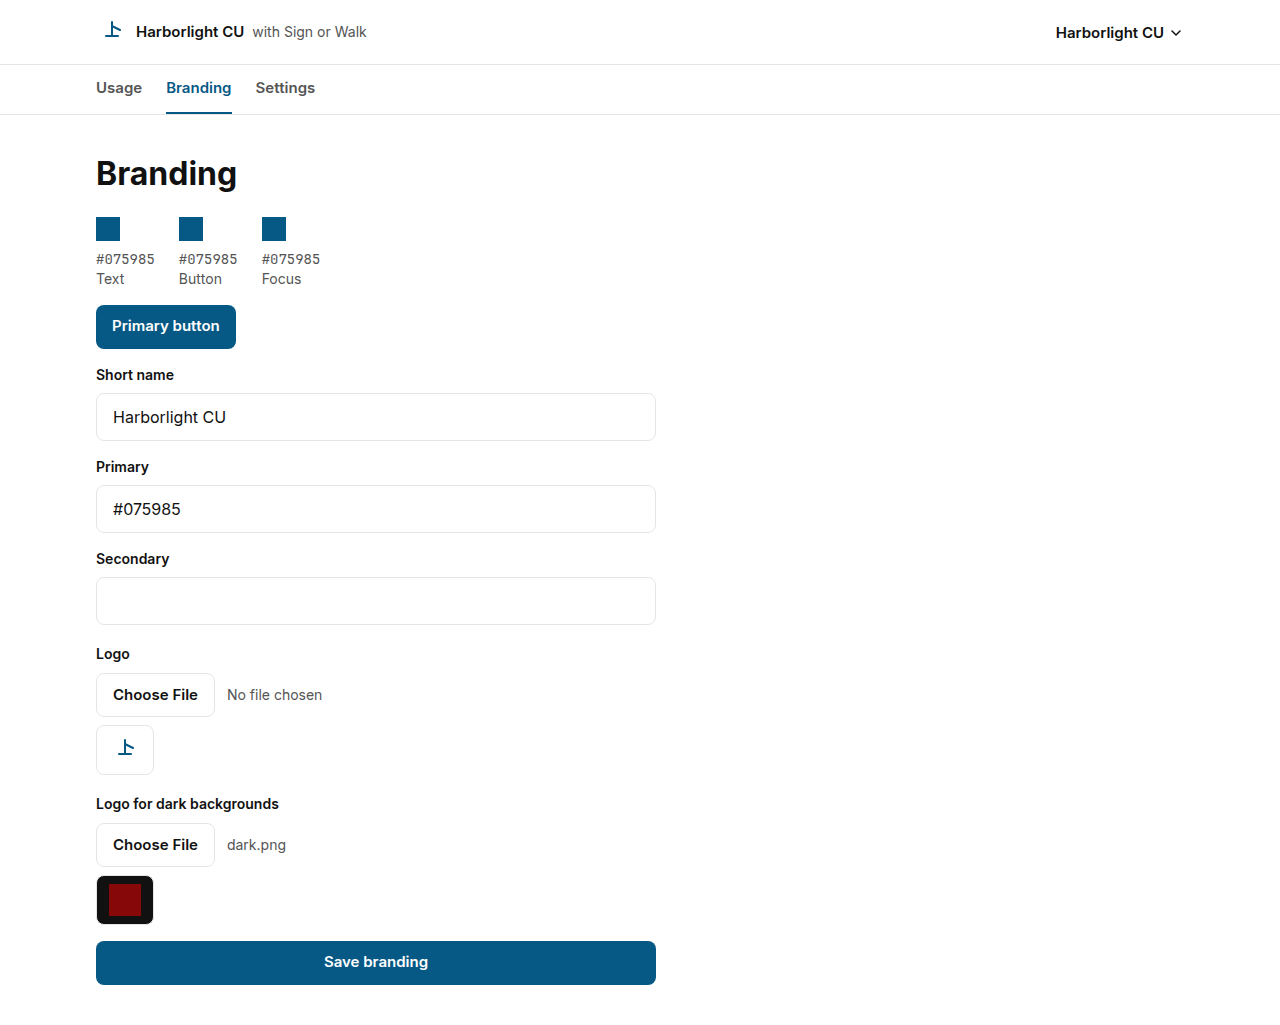
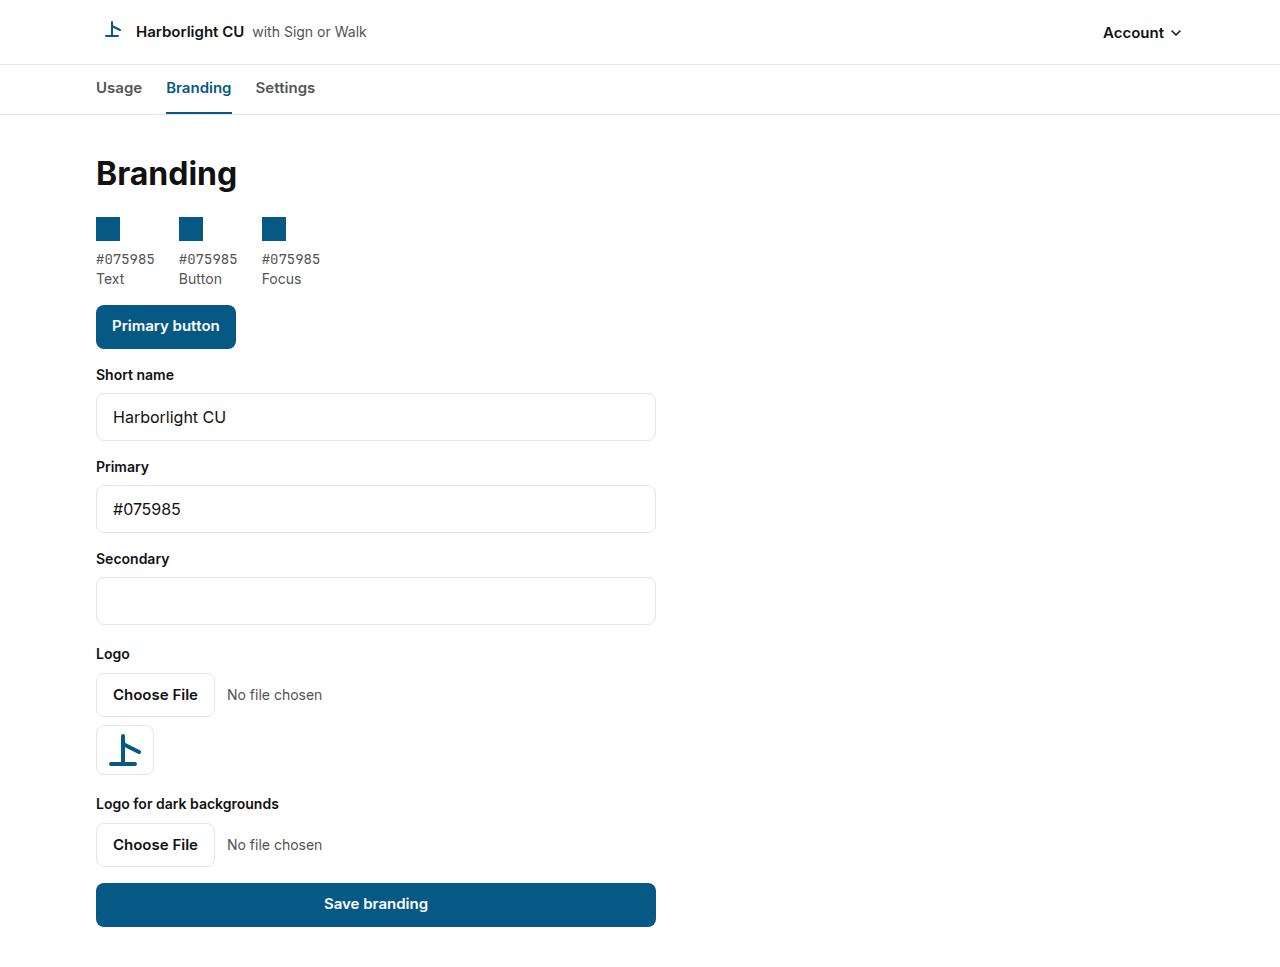
Label every account button Account and add a pale-yellow demo tenant.
Larkspur Credit Union keeps a light primary and derives darker text and buttons. The light logo preview is cropped so the mark is 32px tall.

diff --git a/test/cu-platform.test.ts b/test/cu-platform.test.ts
@@ -4,6 +4,7 @@ import test from 'node:test';
 import { NextRequest } from 'next/server';
 import { ephemeralSecret, checkCredentials, signSession, verifySession } from '../src/cu/auth';
 import { capChroma, contrastRatio, deriveBrand, parseHex, rgbToOklch } from '../src/cu/contrast';
+import { getCuTenant } from '../src/cu/tenants';
 import { getAggregates, getBranding, recordCheck, resetCuStore, saveBranding, saveSettings } from '../src/cu/cu-store';
 import { readLogoFile } from '../src/cu/logo-file';
 import { formatOcrLog, pickOcrFields } from '../src/cu/ocr';
@@ -39,6 +40,28 @@ test('chroma above 0.25 is capped at 0.18 and brand colors stay readable', () =>
   assert.ok(contrastRatio(white, rgb(brand.brandFill)) >= 4.5);
   assert.equal(brand.focus, brand.brandText);
   assert.match(brand.tint, /\/ 0\.08\)$/);
+});
+
+test('a pale yellow primary is darkened until text and buttons clear 4.5:1', () => {
+  const tenant = getCuTenant('larkspur-cu');
+  assert.ok(tenant);
+  assert.equal(tenant.brand.primary, '#FDE68A');
+  const logs: string[] = [];
+  const brand = deriveBrand(tenant.id, tenant.brand, line => logs.push(line));
+  assert.equal(brand.fallback, false);
+  assert.equal(logs.length, 0);
+  const source = parseHex(tenant.brand.primary);
+  const text = parseHex(brand.brandText);
+  const fill = parseHex(brand.brandFill);
+  assert.ok(source && text && fill);
+  const white: [number, number, number] = [255, 255, 255];
+  assert.ok(rgbToOklch(source)[0] > 0.9);
+  assert.ok(rgbToOklch(text)[0] < rgbToOklch(source)[0]);
+  assert.ok(rgbToOklch(fill)[0] < rgbToOklch(source)[0]);
+  assert.ok(contrastRatio(text, white) >= 4.5);
+  assert.ok(contrastRatio(white, fill) >= 4.5);
+  assert.equal(brand.onBrand, '#ffffff');
+  assert.match(brand.tint, /253 230 138/);
 });
 
 test('an unusable primary falls back to #111 and logs the tenant only', () => {
@@ -218,7 +241,9 @@ test('growth copy and the worksheet route stay on the approved words', () => {
   assert.equal(dashboard.includes('text-center'), false);
   assert.match(dashboard, /CopyLink/);
   assert.match(readFileSync('src/app/cu/[tenant]/dashboard/CopyLink.tsx', 'utf8'), /Copy link/);
-  assert.match(readFileSync('src/app/cu/AccountMenu.tsx', 'utf8'), /md:hidden">Account/);
+  const account = readFileSync('src/app/cu/AccountMenu.tsx', 'utf8');
+  assert.match(account, />\s*Account\s*</);
+  assert.equal(account.includes('md:hidden'), false);
   assert.match(form, /pb-\[120px\]/);
   assert.match(admin, /hidden py-3 pr-4 font-semibold md:table-cell">Email/);
   assert.match(admin, /text-right font-semibold">Checks/);

diff --git a/src/cu/tenants.ts b/src/cu/tenants.ts
@@ -2,14 +2,14 @@ import { type BrandTokens, contrastRatio, deriveBrand, parseRgbChannels } from '
 import { withUtm } from './utm';
 
 /** Closed set of demo credit unions. The URL slug is the tenant. There is no cookie override. */
-export type CuTenantId = 'harborlight-cu' | 'summit-ridge-fcu';
+export type CuTenantId = 'harborlight-cu' | 'summit-ridge-fcu' | 'larkspur-cu';
 
 export interface CuTenant {
   id: CuTenantId;
   name: string;
   legalName: string;
   tagline: string;
-  logo: 'harborlight' | 'summit';
+  logo: 'harborlight' | 'summit' | 'larkspur';
   /** Space-separated RGB channels, for example "11 58 91". */
   colors: { primary: string; primaryFg: string; accent: string };
   brand: BrandTokens;
@@ -66,6 +66,27 @@ export const CU_TENANTS: readonly CuTenant[] = [
     ratesUrl: 'https://www.summitridgefcu.example/loans/auto-rates',
     preApprovalLabel: 'Get pre-approved at Summit Ridge',
     ratesLabel: 'See Summit Ridge auto rates',
+  },
+  {
+    id: 'larkspur-cu',
+    name: 'Larkspur Credit Union',
+    legalName: 'Larkspur Credit Union',
+    tagline: 'Check a vehicle offer',
+    logo: 'larkspur',
+    colors: { primary: '253 230 138', primaryFg: '17 17 17', accent: '138 116 3' },
+    brand: {
+      name: 'Larkspur Credit Union',
+      shortName: 'Larkspur CU',
+      primary: '#FDE68A',
+      logoLight: '/cu-brand/larkspur.svg',
+      logoAspect: 1,
+    },
+    supportUrl: 'https://www.larkspurcu.example/help',
+    privacyUrl: 'https://www.larkspurcu.example/privacy',
+    preApprovalUrl: 'https://www.larkspurcu.example/auto/preapproval',
+    ratesUrl: 'https://www.larkspurcu.example/rates/auto',
+    preApprovalLabel: 'Get pre-approved at Larkspur',
+    ratesLabel: 'See Larkspur auto rates',
   },
 ];
 

diff --git a/src/app/cu/BrandLockup.tsx b/src/app/cu/BrandLockup.tsx
@@ -11,7 +11,7 @@ export function BrandLockup({
   name: string;
   shortName: string;
   color: string;
-  mark?: 'harborlight' | 'summit';
+  mark?: 'harborlight' | 'summit' | 'larkspur';
   logoLight?: string;
   logoAspect?: number;
   beside?: boolean;
@@ -35,9 +35,14 @@ export function BrandLockup({
               <path d="M16 6v14M10 20h12" stroke={color} strokeWidth="2" strokeLinecap="round" />
               <path d="M16 10l8 4" stroke={color} strokeWidth="2" strokeLinecap="round" />
             </svg>
-          ) : (
+          ) : mark === 'summit' ? (
             <svg viewBox="0 0 32 32" className="h-full w-full" role="img" aria-label={name}>
               <path d="M6 24l10-14 10 14" fill="none" stroke={color} strokeWidth="2" strokeLinejoin="round" />
+            </svg>
+          ) : (
+            <svg viewBox="3 3 26 26" className="h-full w-full" role="img" aria-label={name}>
+              <circle cx="16" cy="16" r="5" fill="none" stroke={color} strokeWidth="2" />
+              <path d="M16 4v4M16 24v4M4 16h4M24 16h4" fill="none" stroke={color} strokeWidth="2" strokeLinecap="round" />
             </svg>
           )}
         </span>

diff --git a/src/app/cu/AccountMenu.tsx b/src/app/cu/AccountMenu.tsx
@@ -11,7 +11,7 @@ function Chevron({ open }: { open: boolean }) {
   );
 }
 
-export function AccountMenu({ tenant, label }: { tenant: string; label: string }) {
+export function AccountMenu({ tenant }: { tenant: string }) {
   const [open, setOpen] = useState(false);
   const rootRef = useRef<HTMLDivElement>(null);
   const menuId = useId();
@@ -41,8 +41,7 @@ export function AccountMenu({ tenant, label }: { tenant: string; label: string }
         aria-controls={menuId}
         onClick={() => setOpen(value => !value)}
       >
-        <span className="md:hidden">Account</span>
-        <span className="hidden md:inline">{label}</span>
+        Account
         <Chevron open={open} />
       </button>
       {open ? (

diff --git a/test/cu.test.ts b/test/cu.test.ts
@@ -23,9 +23,10 @@ test('middleware matches only credit-union paths', () => {
   assert.equal(joined.includes('tenant='), false);
 });
 
-test('slug resolves the two demo tenants and nothing else', () => {
+test('slug resolves the demo tenants and nothing else', () => {
   assert.equal(getCuTenant('harborlight-cu')?.name, 'Harborlight Credit Union');
   assert.equal(getCuTenant('SUMMIT-RIDGE-FCU')?.id, 'summit-ridge-fcu');
+  assert.equal(getCuTenant('larkspur-cu')?.name, 'Larkspur Credit Union');
   assert.equal(getCuTenant('sow'), undefined);
   assert.equal(getCuTenant('harborlight.signorwalk.app'), undefined);
   assert.equal(getCuTenant('../harborlight-cu'), undefined);

diff --git a/src/app/cu/StaffHeader.tsx b/src/app/cu/StaffHeader.tsx
@@ -2,18 +2,16 @@ import { AccountMenu } from './AccountMenu';
 
 export function StaffHeader({
   tenant,
-  accountLabel,
   children,
 }: {
   tenant: string;
-  accountLabel: string;
   children: React.ReactNode;
 }) {
   return (
     <header className="border-b cu-line">
       <div className="mx-auto flex min-h-16 w-full max-w-[1120px] items-center justify-between gap-4 px-4">
         {children}
-        <AccountMenu tenant={tenant} label={accountLabel} />
+        <AccountMenu tenant={tenant} />
       </div>
     </header>
   );

diff --git a/src/app/cu/admin/page.tsx b/src/app/cu/admin/page.tsx
@@ -29,7 +29,7 @@ export default async function AdminPage() {
 
   return (
     <>
-      <StaffHeader tenant={demoTenantId()} accountLabel="Admin">
+      <StaffHeader tenant={demoTenantId()}>
         <p className="text-[15px] font-semibold leading-[20px]">Sign or Walk</p>
       </StaffHeader>
       <main className="mx-auto w-full max-w-[1120px] px-4 py-10">

diff --git a/src/app/cu/[tenant]/dashboard/page.tsx b/src/app/cu/[tenant]/dashboard/page.tsx
@@ -95,7 +95,7 @@ export default async function DashboardPage({
 
   return (
     <>
-      <StaffHeader tenant={tenant.id} accountLabel={brand.shortName}>
+      <StaffHeader tenant={tenant.id}>
         <BrandLockup
           name={tenant.name}
           shortName={brand.shortName}
